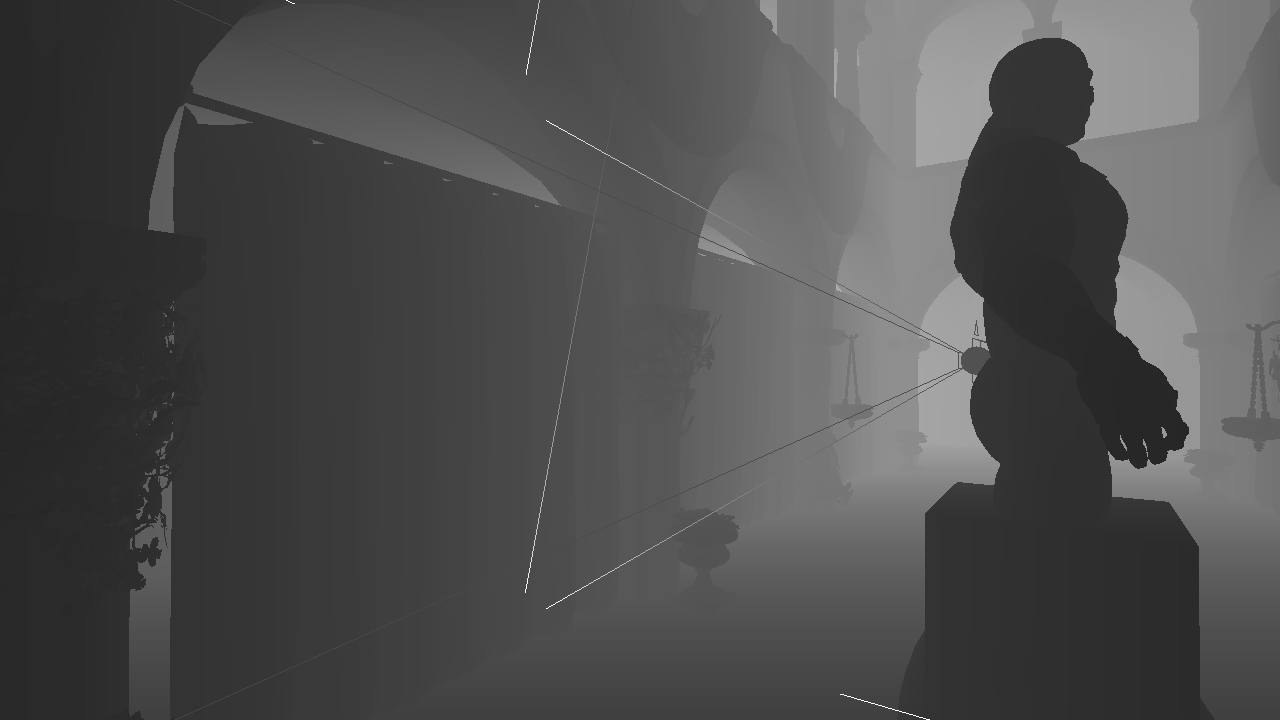
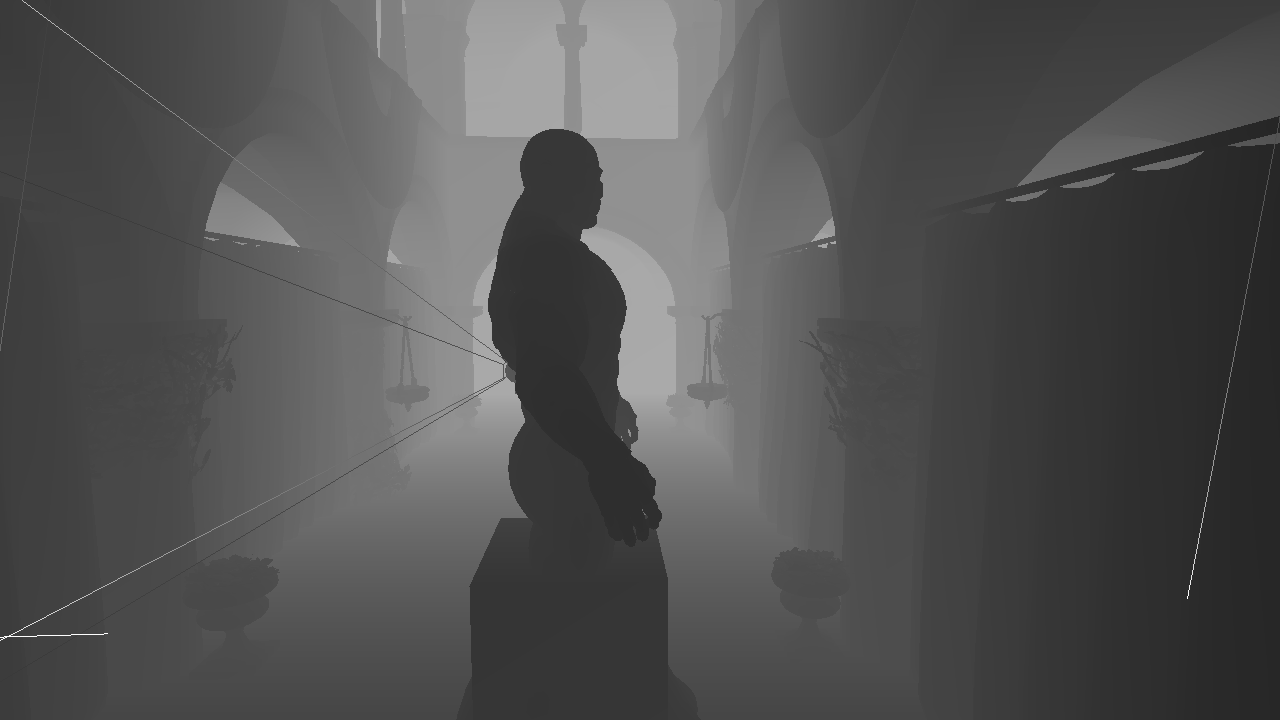
add shadow in testcube, fix depth stencil binding error

diff --git a/DX11Study/TestCube.cpp b/DX11Study/TestCube.cpp
@@ -29,20 +29,20 @@ TestCube::TestCube(Graphics& gfx, float size) {
 			only.AddBindable(Texture::Resolve(gfx, "Images/brickwall.jpg"));
 			only.AddBindable(Sampler::Resolve(gfx));
 
-			auto pvs = VertexShader::Resolve(gfx, "PhongDifVS.cso");
+			auto pvs = VertexShader::Resolve(gfx, "ShadowTestVS.cso");
 			only.AddBindable(InputLayout::Resolve(gfx, model.vertices.GetLayout(), *pvs));
 			only.AddBindable(std::move(pvs));
 
-			only.AddBindable(PixelShader::Resolve(gfx, "PhongDifPS.cso"));
+			only.AddBindable(PixelShader::Resolve(gfx, "ShadowTestPS.cso"));
 
 			Dcb::RawLayout lay;
 			lay.Add<Dcb::Float3>("specularColor");
 			lay.Add<Dcb::Float>("specularWeight");
 			lay.Add<Dcb::Float>("specularGloss");
 			auto buf = Dcb::Buffer(std::move(lay));
-			buf["specularColor"] = dx::XMFLOAT3{ 1.0f,1.0f,1.0f };
-			buf["specularWeight"] = 0.1f;
-			buf["specularGloss"] = 20.0f;
+			buf["specularColor"] = dx::XMFLOAT3{ 1.0f,0.3f,0.3f };
+			buf["specularWeight"] = 0.001f;
+			buf["specularGloss"] = 1.0f;
 			only.AddBindable(std::make_shared<Bind::CachingPixelConstantBufferEx>(gfx, buf, 1u));
 
 
@@ -154,16 +154,16 @@ void TestCube::SpawnControlWindow(Graphics& gfx, const char* name) noexcept {
 				};
 
 				if (auto v = buf["scale"]; v.Exists()) {
-					dcheck(ImGui::SliderFloat(tag("Scale"), &v, 1.0f, 2.0f, "%.3f"));
+					dcheck(ImGui::SliderFloat(tag("Scale"), &v, 1.0f, 2.0f));
 				}
-				if (auto v = buf["color"]; v.Exists()) {
-					dcheck(ImGui::ColorPicker4(tag("Color"), reinterpret_cast<float*>(&static_cast<dx::XMFLOAT4&>(v))));
+				if (auto v = buf["specularColor"]; v.Exists()) {
+					dcheck(ImGui::ColorPicker4(tag("Spec. Color."), reinterpret_cast<float*>(&static_cast<dx::XMFLOAT3&>(v))));
 				}
-				if (auto v = buf["specularIntensity"]; v.Exists()) {
+				if (auto v = buf["specularWeight"]; v.Exists()) {
 					dcheck(ImGui::SliderFloat(tag("Spec. Intens."), &v, 0.0f, 1.0f));
 				}
-				if (auto v = buf["specularPower"]; v.Exists()) {
-					dcheck(ImGui::SliderFloat(tag("Glossiness"), &v, 1.0f, 100.0f, "%.1f"));
+				if (auto v = buf["specularGloss"]; v.Exists()) {
+					dcheck(ImGui::SliderFloat(tag("Glossiness"), &v, 1.0f, 100.0f));
 				}
 				return dirty;
 			}

diff --git a/DX11Study/LambertianPass.h b/DX11Study/LambertianPass.h
@@ -6,22 +6,27 @@
 #include "Source.h"
 #include "Stencil.h"
 #include "Camera.h"
+#include "ShadowCameraCBuf.h"
+#include "DepthStencil.h"
+#include "ShadowSampler.h"
 
 class Graphics;
 
 namespace Rgph {
 	class LambertianPass : public RenderQueuePass {
 	public:
-		void BindMainCamera(const Camera& cam) noexcept {
-			pMainCamera = &cam;
-		}
 		LambertianPass(Graphics& gfx, std::string name)
 			:
-			RenderQueuePass(std::move(name)) 
+			RenderQueuePass(std::move(name)),
+			pShadowCBuf{ std::make_shared<Bind::ShadowCameraCBuf>(gfx) },
+			pShadowSampler{ std::make_shared<Bind::ShadowSampler>(gfx) }
 		{
 			using namespace Bind;
+			AddBind(pShadowCBuf);
+			AddBind(pShadowSampler);
 			RegisterSink(DirectBufferSink<RenderTarget>::Make("renderTarget", renderTarget));
 			RegisterSink(DirectBufferSink<Bind::DepthStencil>::Make("depthStencil", depthStencil));
+			AddBindSink<Bind::Bindable>("shadowMap");
 			RegisterSource(DirectBufferSource<RenderTarget>::Make("renderTarget", renderTarget));
 			RegisterSource(DirectBufferSource<Bind::DepthStencil>::Make("depthStencil", depthStencil));
 			AddBind(Stencil::Resolve(gfx, Stencil::Mode::Off));
@@ -29,10 +34,19 @@ namespace Rgph {
 		void Execute(Graphics& gfx) const noexcept(!IS_DEBUG) override
 		{
 			assert(pMainCamera);
+			pShadowCBuf->Update(gfx);
 			pMainCamera->BindToGraphics(gfx);
 			RenderQueuePass::Execute(gfx);
 		}
+		void BindMainCamera(const Camera& cam) noexcept {
+			pMainCamera = &cam;
+		}
+		void BindShadowCamera(const Camera& cam) noexcept {
+			pShadowCBuf->SetCamera(&cam);
+		}
 	private:
+		std::shared_ptr<Bind::ShadowCameraCBuf> pShadowCBuf;
+		std::shared_ptr<Bind::ShadowSampler> pShadowSampler;
 		const Camera* pMainCamera = nullptr;
 	};
 }

diff --git a/DX11Study/Material.cpp b/DX11Study/Material.cpp
@@ -151,22 +151,22 @@ Material::Material(Graphics& gfx, const aiMaterial& material, const std::filesys
 		techniques.push_back(std::move(outline));
 	}
 	// shadow map technique
-	{
-		Technique map{ "ShadowMap", channel::shadow,true };
-		{
-			Step draw("shadowMap");
+	//{
+	//	Technique map{ "ShadowMap", channel::shadow,true };
+	//	{
+	//		Step draw("shadowMap");
 
-			// TODO: better sub-layout generation tech for future consideration maybe
-			draw.AddBindable(InputLayout::Resolve(gfx, vertexLayout, *VertexShader::Resolve(gfx, "SolidVS.cso")));
+	//		// TODO: better sub-layout generation tech for future consideration maybe
+	//		draw.AddBindable(InputLayout::Resolve(gfx, vertexLayout, *VertexShader::Resolve(gfx, "SolidVS.cso")));
 
-			draw.AddBindable(std::make_shared<TransformCbuf>(gfx));
+	//		draw.AddBindable(std::make_shared<TransformCbuf>(gfx));
 
-			// TODO: might need to specify rasterizer when doubled-sided models start being used
+	//		// TODO: might need to specify rasterizer when doubled-sided models start being used
 
-			map.AddStep(std::move(draw));
-		}
-		techniques.push_back(std::move(map));
-	}
+	//		map.AddStep(std::move(draw));
+	//	}
+	//	techniques.push_back(std::move(map));
+	//}
 }
 
 custom::VertexBuffer Material::ExtractVertices(const aiMesh& mesh) const noexcept {

diff --git a/DX11Study/ShadowMappingPass.h b/DX11Study/ShadowMappingPass.h
@@ -18,10 +18,10 @@ namespace Rgph
 	class ShadowMappingPass : public RenderQueuePass
 	{
 	public:
-		void BindShadowCamera(const Camera& cam) noexcept
-		{
+		void BindShadowCamera(const Camera& cam) noexcept {
 			pShadowCamera = &cam;
 		}
+
 		ShadowMappingPass(Graphics& gfx, std::string name)
 			:
 			RenderQueuePass(std::move(name))
@@ -32,16 +32,16 @@ namespace Rgph
 			AddBind(NullPixelShader::Resolve(gfx));
 			AddBind(Stencil::Resolve(gfx, Stencil::Mode::Off));
 			AddBind(Blender::Resolve(gfx, false));
-			RegisterSource(DirectBindableSource<Bind::DepthStencil>::Make("shadowMap", depthStencil));
+			RegisterSource(DirectBindableSource<Bind::DepthStencil>::Make("map", depthStencil));
 		}
-		void Execute(Graphics& gfx) const noexcept(!IS_DEBUG) override
-		{
+
+		void Execute(Graphics& gfx) const noexcept(!IS_DEBUG) override {
 			depthStencil->Clear(gfx);
 			pShadowCamera->BindToGraphics(gfx);
 			RenderQueuePass::Execute(gfx);
 		}
-		void DumpShadowMap(Graphics& gfx, const std::string& path) const
-		{
+
+		void DumpShadowMap(Graphics& gfx, const std::string& path) const {
 			depthStencil->ToSurface(gfx).Save(path);
 		}
 	private:

diff --git a/DX11Study/ShadowSampler.cpp b/DX11Study/ShadowSampler.cpp
@@ -1,0 +1,22 @@
+#include "ShadowSampler.h"
+#include "GraphicsThrowMacros.h"
+#include "BindableCodex.h"
+
+namespace Bind {
+	ShadowSampler::ShadowSampler(Graphics& gfx) {
+		INFOMAN(gfx);
+
+		D3D11_SAMPLER_DESC samplerDesc = CD3D11_SAMPLER_DESC{ CD3D11_DEFAULT{} };
+
+		samplerDesc.BorderColor[0] = 1.0f;
+		samplerDesc.AddressU = D3D11_TEXTURE_ADDRESS_BORDER;
+		samplerDesc.AddressV = D3D11_TEXTURE_ADDRESS_BORDER;
+
+		GFX_THROW_INFO(GetDevice(gfx)->CreateSamplerState(&samplerDesc, &pSampler));
+	}
+
+	void ShadowSampler::Bind(Graphics& gfx) noexcept {
+		INFOMAN_NOHR(gfx);
+		GFX_THROW_INFO_ONLY(GetContext(gfx)->PSSetSamplers(1u, 1u, pSampler.GetAddressOf()));
+	}
+}

diff --git a/DX11Study/App.cpp b/DX11Study/App.cpp
@@ -27,8 +27,8 @@ App::App()
 	cameras.AddCamera(std::make_unique<Camera>(wnd.Gfx(), "Second", DirectX::XMFLOAT3{ -13.5f, 28.0f, -3.5f }, 0.0f, PI / 2.0f, false));
 	cameras.AddCamera(light.ShareCamera());
 
-	cube1.SetPos({ 4.0f, 0.0f, 0.0f });
-	cube2.SetPos({ 0.0f, 4.0f, 0.0f });
+	cube1.SetPos({ 10.0f,5.0f,6.0f });
+	cube2.SetPos({ 10.0f,5.0f,14.0f });
 
 	light.LinkTechniques(rg);
 	cube1.LinkTechniques(rg);
@@ -68,7 +68,6 @@ void App::DoFrame(float dt) {
 
 	sponza.Submit(channel::shadow);
 	cube1.Submit(channel::shadow);
-	sponza.Submit(channel::shadow);
 	cube2.Submit(channel::shadow);
 	gobber.Submit(channel::shadow);
 	nano.Submit(channel::shadow);

diff --git a/DX11Study/ShadowCameraCBuf.cpp b/DX11Study/ShadowCameraCBuf.cpp
@@ -1,0 +1,28 @@
+#include "ShadowCameraCBuf.h"
+#include "Camera.h"
+
+namespace dx = DirectX;
+
+namespace Bind {
+	ShadowCameraCBuf::ShadowCameraCBuf(Graphics& gfx, UINT slot)
+		:
+		pVcbuf{ std::make_unique<VertexConstantBuffer<Transform>>(gfx,slot) } 
+	{}
+
+	void ShadowCameraCBuf::Bind(Graphics& gfx) noexcept {
+		pVcbuf->Bind(gfx);
+	}
+	
+	void ShadowCameraCBuf::Update(Graphics& gfx) {
+		const Transform t{
+			dx::XMMatrixTranspose(
+				pCamera->GetMatrix() * pCamera->GetProjection()
+			)
+		};
+		pVcbuf->Update(gfx, t);
+	}
+	
+	void ShadowCameraCBuf::SetCamera(const Camera* p) noexcept {
+		pCamera = p;
+	}
+}

diff --git a/DX11Study/BlurOutlineRenderGraph.cpp b/DX11Study/BlurOutlineRenderGraph.cpp
@@ -36,6 +36,7 @@ namespace Rgph {
 			}
 			{
 				auto pass = std::make_unique<LambertianPass>(gfx, "lambertian");
+				pass->SetSinkLinkage("shadowMap", "shadowMap.map");
 				pass->SetSinkLinkage("renderTarget", "clearRT.buffer");
 				pass->SetSinkLinkage("depthStencil", "clearDS.buffer");
 				AppendPass(std::move(pass));
@@ -179,6 +180,7 @@ namespace Rgph {
 
 	void Rgph::BlurOutlineRenderGraph::BindShadowCamera(Camera& cam) {
 		dynamic_cast<ShadowMappingPass&>(FindPassByName("shadowMap")).BindShadowCamera(cam);
+		dynamic_cast<LambertianPass&>(FindPassByName("lambertian")).BindShadowCamera(cam);
 	}
 
 }

diff --git a/DX11Study/ShadowCameraCBuf.h b/DX11Study/ShadowCameraCBuf.h
@@ -1,0 +1,22 @@
+#pragma once
+#include "Bindable.h"
+#include "ConstantBuffers.h"
+
+class Camera;
+
+namespace Bind {
+	class ShadowCameraCBuf : public Bindable {
+	protected:
+		struct Transform {
+			DirectX::XMMATRIX ViewProj;
+		};
+	public:
+		ShadowCameraCBuf(Graphics& gfx, UINT slot = 1u);
+		void Bind(Graphics& gfx) noexcept override;
+		void Update(Graphics& gfx);
+		void SetCamera(const Camera* pCamera) noexcept;
+	private:
+		std::unique_ptr<VertexConstantBuffer<Transform>> pVcbuf;
+		const Camera* pCamera = nullptr;
+	};
+}

diff --git a/DX11Study/DepthStencil.h b/DX11Study/DepthStencil.h
@@ -25,9 +25,11 @@ namespace Bind {
 		unsigned int GetHeight() const;
 	protected:
 		DepthStencil(Graphics& gfx, UINT width, UINT height, bool canBindShaderInput, Usage usage);
+		void UnbindResource(Graphics& gfx, UINT slot, UINT size);
 		Microsoft::WRL::ComPtr<ID3D11DepthStencilView> pDepthStencilView;
 		unsigned int width;
 		unsigned int height;
+		static constexpr ID3D11ShaderResourceView* null[] = { nullptr, nullptr, nullptr, nullptr };
 	};
 
 	class ShaderInputDepthStencil : public DepthStencil {

diff --git a/DX11Study/RenderGraph.cpp b/DX11Study/RenderGraph.cpp
@@ -90,6 +90,12 @@ namespace Rgph {
 		for (auto& si : pass.GetSinks()) {
 			const auto& inputSourcePassName = si->GetPassName();
 
+			if (inputSourcePassName.empty()) {
+				std::ostringstream oss;
+				oss << "In pass named [" << pass.GetName() << "] sink named [" << si->GetRegisteredName() << "] has no target source set.";
+				throw RGC_EXCEPTION(oss.str());
+			}
+
 			// check check whether target source is global
 			if (inputSourcePassName == "$") {
 				bool bound = false;

diff --git a/DX11Study/DepthStencil.cpp b/DX11Study/DepthStencil.cpp
@@ -70,8 +70,14 @@ namespace Bind {
 		));
 	}
 
+	void DepthStencil::UnbindResource(Graphics& gfx, UINT slot, UINT size) {
+		INFOMAN_NOHR(gfx);
+		GFX_THROW_INFO_ONLY(GetContext(gfx)->PSSetShaderResources(slot, size, null));
+	}
+
 	void DepthStencil::BindAsBuffer(Graphics& gfx) noexcept(!IS_DEBUG) {
 		INFOMAN_NOHR(gfx);
+		UnbindResource(gfx, 0u, 4u);
 		GFX_THROW_INFO_ONLY(GetContext(gfx)->OMSetRenderTargets(0, nullptr, pDepthStencilView.Get()));
 	}
 
